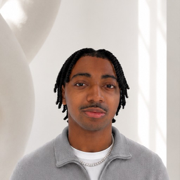
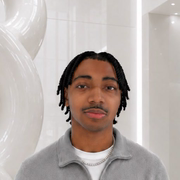
Replace hero portrait with gallery photo

diff --git a/index.html b/index.html
@@ -15,30 +15,30 @@
     </script>
     <link rel="canonical" href="https://brandontemple.com/">
     <link rel="alternate" type="application/pdf" href="https://brandontemple.com/resume/brandon-temple-resume.pdf" title="Brandon Temple resume PDF">
-    <link rel="icon" href="/favicon.ico?v=20260723-studio-photo" sizes="any">
-    <link rel="shortcut icon" href="/favicon.ico?v=20260723-studio-photo">
-    <link rel="icon" href="/assets/images/favicon.png?v=20260723-studio-photo" type="image/png" sizes="192x192">
-    <link rel="apple-touch-icon" href="/assets/images/apple-touch-icon.png?v=20260723-studio-photo" sizes="180x180">
-    <link rel="preload" as="image" type="image/webp" href="/assets/images/brandon-profile-photo-960.webp?v=20260723-studio-photo" imagesrcset="/assets/images/brandon-profile-photo-420.webp?v=20260723-studio-photo 420w, /assets/images/brandon-profile-photo-720.webp?v=20260723-studio-photo 720w, /assets/images/brandon-profile-photo-960.webp?v=20260723-studio-photo 960w, /assets/images/brandon-profile-photo-1120.webp?v=20260723-studio-photo 1120w" imagesizes="(max-width: 768px) calc(100vw - 2rem), 390px" fetchpriority="high">
+    <link rel="icon" href="/favicon.ico?v=20260723-gallery-portrait" sizes="any">
+    <link rel="shortcut icon" href="/favicon.ico?v=20260723-gallery-portrait">
+    <link rel="icon" href="/assets/images/favicon.png?v=20260723-gallery-portrait" type="image/png" sizes="192x192">
+    <link rel="apple-touch-icon" href="/assets/images/apple-touch-icon.png?v=20260723-gallery-portrait" sizes="180x180">
+    <link rel="preload" as="image" type="image/webp" href="/assets/images/brandon-profile-photo-960.webp?v=20260723-gallery-portrait" imagesrcset="/assets/images/brandon-profile-photo-420.webp?v=20260723-gallery-portrait 420w, /assets/images/brandon-profile-photo-720.webp?v=20260723-gallery-portrait 720w, /assets/images/brandon-profile-photo-960.webp?v=20260723-gallery-portrait 960w, /assets/images/brandon-profile-photo-1120.webp?v=20260723-gallery-portrait 1120w" imagesizes="(max-width: 768px) calc(100vw - 2rem), 390px" fetchpriority="high">
     <meta property="og:type" content="profile">
     <meta property="og:title" content="Brandon Temple | Software Engineer Portfolio">
     <meta property="og:description" content="Official portfolio for Brandon Vashun Temple, a software engineer building workflow, data, and product systems across .NET, browser reporting, Firebase, Python/SQL, native Apple apps, APIs, and local AI.">
     <meta property="og:url" content="https://brandontemple.com/">
     <meta property="og:site_name" content="Brandon Temple">
     <meta property="og:locale" content="en_US">
-    <meta property="og:image" content="https://brandontemple.com/assets/images/social-preview.png?v=20260723-studio-photo">
-    <meta property="og:image:secure_url" content="https://brandontemple.com/assets/images/social-preview.png?v=20260723-studio-photo">
+    <meta property="og:image" content="https://brandontemple.com/assets/images/social-preview.png?v=20260723-gallery-portrait">
+    <meta property="og:image:secure_url" content="https://brandontemple.com/assets/images/social-preview.png?v=20260723-gallery-portrait">
     <meta property="og:image:type" content="image/png">
     <meta property="og:image:width" content="1200">
     <meta property="og:image:height" content="630">
-    <meta property="og:image:alt" content="Brandon Temple software engineer portfolio card with a bright studio portrait and C#, Python, WinUI, and machine learning skills">
+    <meta property="og:image:alt" content="Brandon Temple software engineer portfolio card with a bright gallery portrait and C#, Python, WinUI, and machine learning skills">
     <meta property="profile:first_name" content="Brandon">
     <meta property="profile:last_name" content="Temple">
     <meta name="twitter:card" content="summary_large_image">
     <meta name="twitter:title" content="Brandon Temple | Software Engineer Portfolio">
     <meta name="twitter:description" content="Official portfolio for Brandon Vashun Temple, a software engineer building workflow, data, and product systems across .NET, browser reporting, Firebase, Python/SQL, native Apple apps, APIs, and local AI.">
-    <meta name="twitter:image" content="https://brandontemple.com/assets/images/social-preview.png?v=20260723-studio-photo">
-    <meta name="twitter:image:alt" content="Brandon Temple software engineer portfolio card with a bright studio portrait and C#, Python, WinUI, and machine learning skills">
+    <meta name="twitter:image" content="https://brandontemple.com/assets/images/social-preview.png?v=20260723-gallery-portrait">
+    <meta name="twitter:image:alt" content="Brandon Temple software engineer portfolio card with a bright gallery portrait and C#, Python, WinUI, and machine learning skills">
     <script type="application/ld+json">
     {
         "@context": "https://schema.org",
@@ -135,7 +135,7 @@
                 "width": 1024,
                 "height": 1280,
                 "name": "Brandon Temple profile portrait",
-                "caption": "Brandon Temple wearing a light gray zip jacket in a bright white studio with sculptural artwork.",
+                "caption": "Brandon Temple wearing a light gray zip jacket in a bright white gallery beside an abstract loop sculpture and olive tree.",
                 "description": "Primary professional portrait of software engineer Brandon Vashun Temple.",
                 "representativeOfPage": true
             },
@@ -818,10 +818,10 @@
             <div class="hero-collage">
                 <div class="hero-photo-shell">
                     <picture>
-                        <source type="image/webp" srcset="/assets/images/brandon-profile-photo-420.webp?v=20260723-studio-photo 420w, /assets/images/brandon-profile-photo-720.webp?v=20260723-studio-photo 720w, /assets/images/brandon-profile-photo-960.webp?v=20260723-studio-photo 960w, /assets/images/brandon-profile-photo-1120.webp?v=20260723-studio-photo 1120w" sizes="(max-width: 768px) calc(100vw - 2rem), 390px">
-                        <img src="/assets/images/brandon-profile-photo.jpg?v=20260723-studio-photo" alt="Brandon Temple wearing a light gray zip jacket in a bright white studio with sculptural artwork" width="1024" height="1280" class="hero-profile-image" fetchpriority="high" decoding="async">
+                        <source type="image/webp" srcset="/assets/images/brandon-profile-photo-420.webp?v=20260723-gallery-portrait 420w, /assets/images/brandon-profile-photo-720.webp?v=20260723-gallery-portrait 720w, /assets/images/brandon-profile-photo-960.webp?v=20260723-gallery-portrait 960w, /assets/images/brandon-profile-photo-1120.webp?v=20260723-gallery-portrait 1120w" sizes="(max-width: 768px) calc(100vw - 2rem), 390px">
+                        <img src="/assets/images/brandon-profile-photo.jpg?v=20260723-gallery-portrait" alt="Brandon Temple wearing a light gray zip jacket in a bright white gallery beside an abstract loop sculpture and olive tree" width="1024" height="1280" class="hero-profile-image" fetchpriority="high" decoding="async">
                     </picture>
-                    <a href="/assets/images/brandon-profile-photo.jpg?v=20260723-studio-photo" download="brandon-temple-studio-profile-photo.jpg" class="image-download-button" aria-label="Download Brandon Temple profile photo">
+                    <a href="/assets/images/brandon-profile-photo.jpg?v=20260723-gallery-portrait" download="brandon-temple-gallery-profile-photo.jpg" class="image-download-button" aria-label="Download Brandon Temple profile photo">
                         <svg width="22" height="22" viewBox="0 0 24 24" fill="none" stroke="currentColor" stroke-width="2.2" stroke-linecap="round" stroke-linejoin="round" aria-hidden="true" focusable="false">
                             <path d="M12 3v12"></path>
                             <path d="m7 10 5 5 5-5"></path>

diff --git a/resume/index.html b/resume/index.html
@@ -10,27 +10,27 @@
     <meta name="theme-color" content="#050505">
     <link rel="canonical" href="https://brandontemple.com/resume/">
     <link rel="alternate" type="application/pdf" href="https://brandontemple.com/resume/brandon-temple-resume.pdf" title="Brandon Temple resume PDF">
-    <link rel="icon" href="/favicon.ico?v=20260723-studio-photo" sizes="any">
-    <link rel="shortcut icon" href="/favicon.ico?v=20260723-studio-photo">
-    <link rel="icon" href="/assets/images/favicon.png?v=20260723-studio-photo" type="image/png" sizes="192x192">
-    <link rel="apple-touch-icon" href="/assets/images/apple-touch-icon.png?v=20260723-studio-photo" sizes="180x180">
+    <link rel="icon" href="/favicon.ico?v=20260723-gallery-portrait" sizes="any">
+    <link rel="shortcut icon" href="/favicon.ico?v=20260723-gallery-portrait">
+    <link rel="icon" href="/assets/images/favicon.png?v=20260723-gallery-portrait" type="image/png" sizes="192x192">
+    <link rel="apple-touch-icon" href="/assets/images/apple-touch-icon.png?v=20260723-gallery-portrait" sizes="180x180">
     <meta property="og:type" content="profile">
     <meta property="og:title" content="Brandon Temple Resume | Software Engineer">
     <meta property="og:description" content="Resume for Brandon Vashun Temple, software engineer building workflow and data systems with C#/.NET, Python, SQL, APIs, browser-based reporting, Excel exports, and AI-assisted tools.">
     <meta property="og:url" content="https://brandontemple.com/resume/">
     <meta property="og:site_name" content="Brandon Temple">
     <meta property="og:locale" content="en_US">
-    <meta property="og:image" content="https://brandontemple.com/assets/images/social-preview.png?v=20260723-studio-photo">
-    <meta property="og:image:secure_url" content="https://brandontemple.com/assets/images/social-preview.png?v=20260723-studio-photo">
+    <meta property="og:image" content="https://brandontemple.com/assets/images/social-preview.png?v=20260723-gallery-portrait">
+    <meta property="og:image:secure_url" content="https://brandontemple.com/assets/images/social-preview.png?v=20260723-gallery-portrait">
     <meta property="og:image:type" content="image/png">
     <meta property="og:image:width" content="1200">
     <meta property="og:image:height" content="630">
-    <meta property="og:image:alt" content="Brandon Temple software engineer portfolio card with a bright studio portrait and C#, Python, WinUI, and machine learning skills">
+    <meta property="og:image:alt" content="Brandon Temple software engineer portfolio card with a bright gallery portrait and C#, Python, WinUI, and machine learning skills">
     <meta name="twitter:card" content="summary_large_image">
     <meta name="twitter:title" content="Brandon Temple Resume | Software Engineer">
     <meta name="twitter:description" content="Resume for Brandon Vashun Temple, software engineer building workflow and data systems with C#/.NET, Python, SQL, APIs, browser-based reporting, Excel exports, and AI-assisted tools.">
-    <meta name="twitter:image" content="https://brandontemple.com/assets/images/social-preview.png?v=20260723-studio-photo">
-    <meta name="twitter:image:alt" content="Brandon Temple software engineer portfolio card with a bright studio portrait and C#, Python, WinUI, and machine learning skills">
+    <meta name="twitter:image" content="https://brandontemple.com/assets/images/social-preview.png?v=20260723-gallery-portrait">
+    <meta name="twitter:image:alt" content="Brandon Temple software engineer portfolio card with a bright gallery portrait and C#, Python, WinUI, and machine learning skills">
     <script type="application/ld+json">
     {
         "@context": "https://schema.org",
